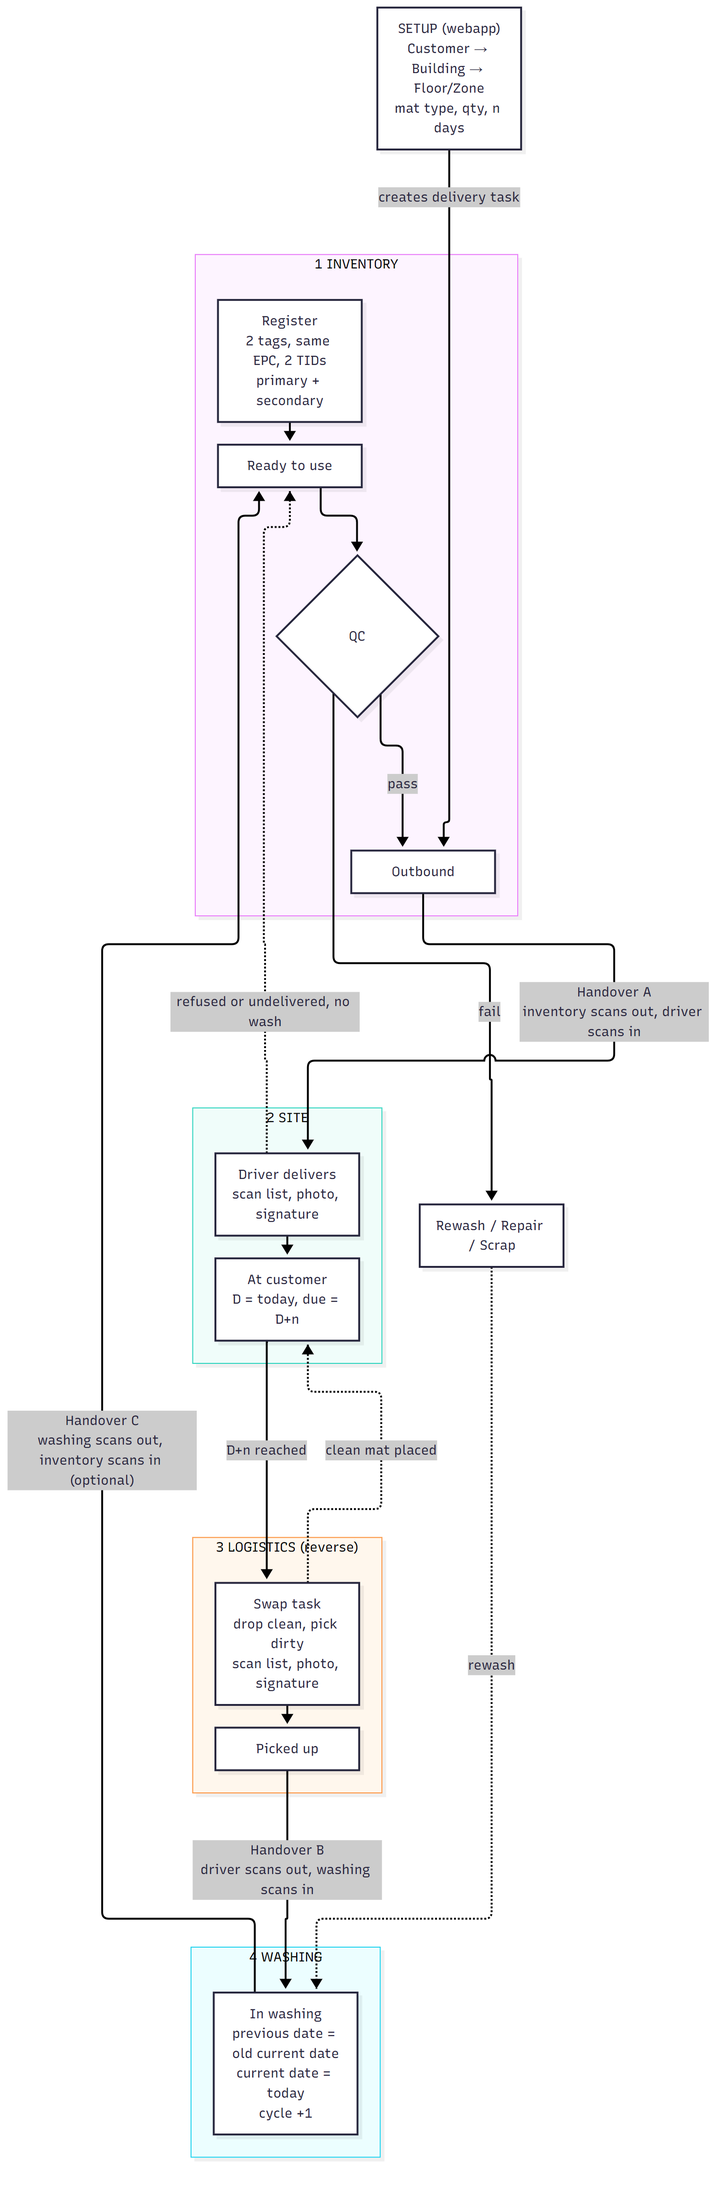
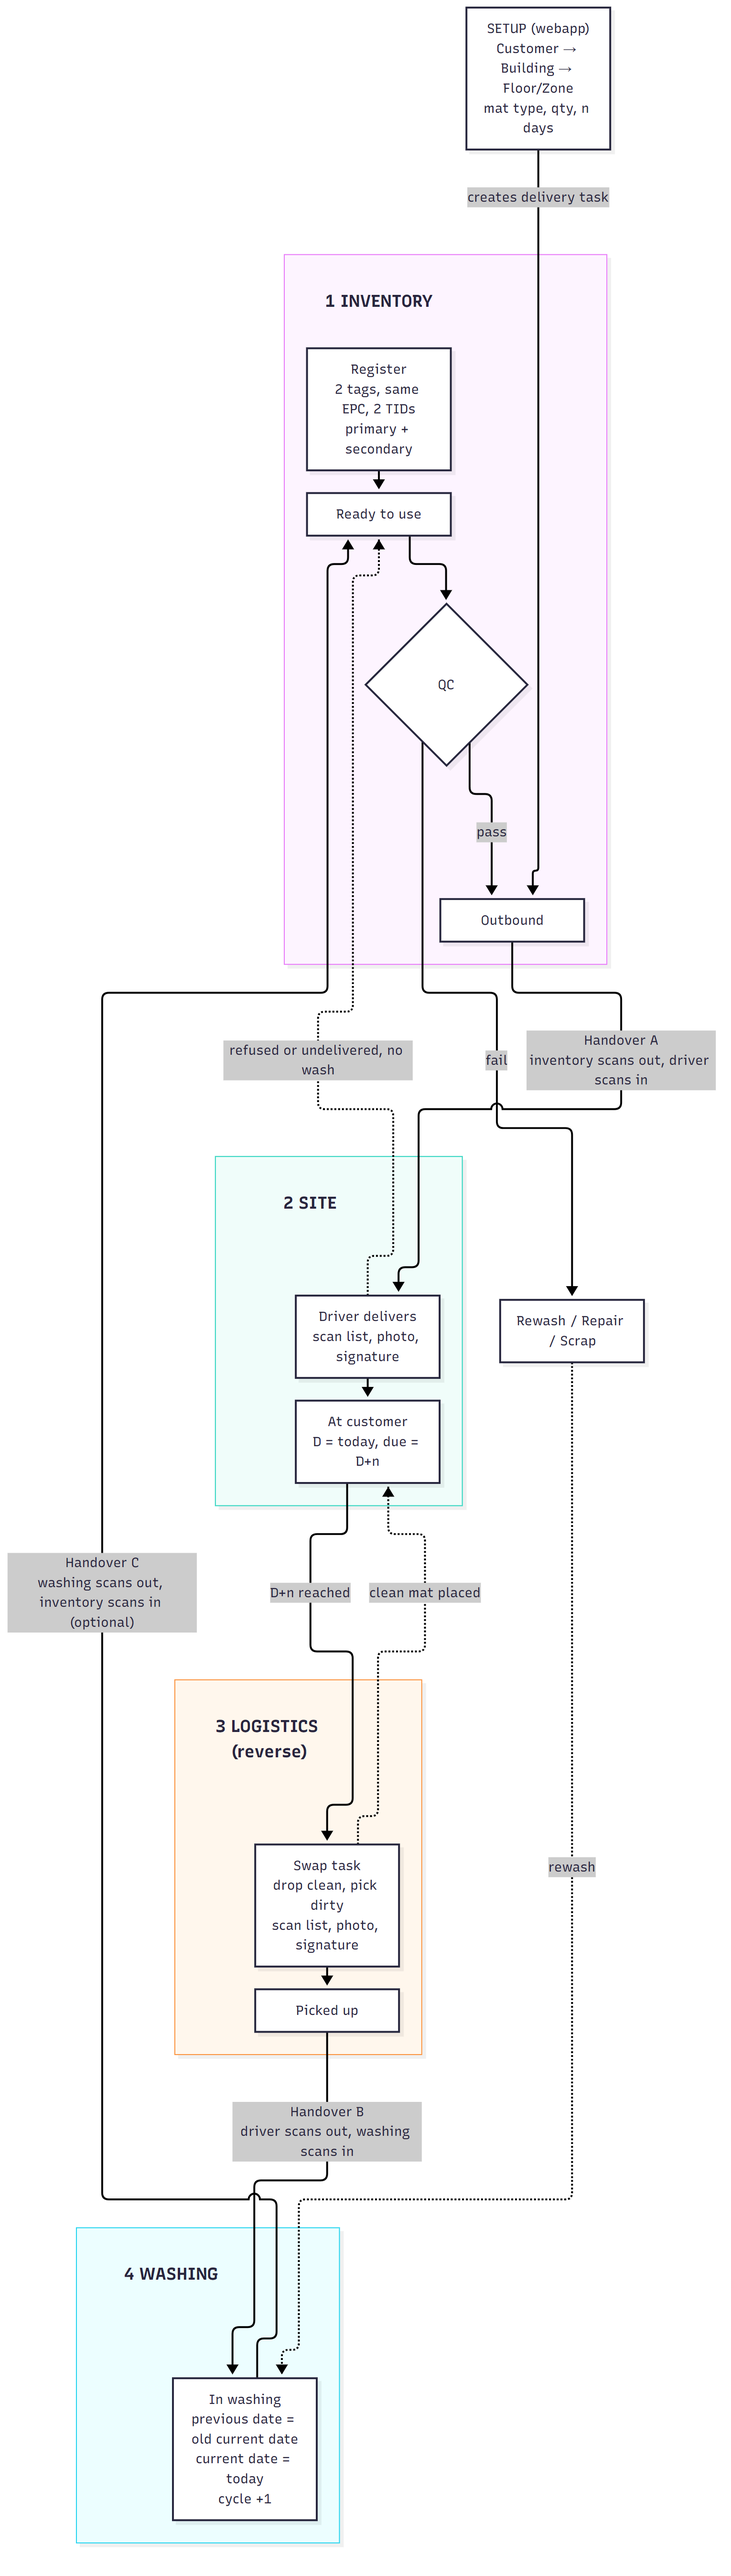
Move phase titles clear of arrow lines at 0.1.3.

diff --git a/FLOW.md b/FLOW.md
@@ -1,6 +1,6 @@
 # Proposed flow
 
-Version: 0.1.2
+Version: 0.1.3
 
 Proposed mat lifecycle for the RFID laundry POC. Defaults that still need client confirmation are listed under the diagram.
 
@@ -13,21 +13,25 @@ Proposed mat lifecycle for the RFID laundry POC. Defaults that still need client
 flowchart TD
     SETUP["SETUP (webapp)<br/>Customer → Building → Floor/Zone<br/>mat type, qty, n days"]
 
-    subgraph INV["1 INVENTORY"]
+    subgraph INV[" "]
+        T1["1 INVENTORY"]:::phase ~~~ REG
         REG["Register<br/>2 tags, same EPC, 2 TIDs<br/>primary + secondary"] --> READY["Ready to use"]
         READY --> QC{"QC"}
         QC -- pass --> OUT["Outbound"]
     end
 
-    subgraph SITE["2 SITE"]
+    subgraph SITE[" "]
+        T2["2 SITE"]:::phase ~~~ DEL
         DEL["Driver delivers<br/>scan list, photo, signature"] --> ATC["At customer<br/>D = today, due = D+n"]
     end
 
-    subgraph LOG["3 LOGISTICS (reverse)"]
+    subgraph LOG[" "]
+        T3["3 LOGISTICS (reverse)"]:::phase ~~~ SWAP
         SWAP["Swap task<br/>drop clean, pick dirty<br/>scan list, photo, signature"] --> PICKED["Picked up"]
     end
 
-    subgraph WASH["4 WASHING"]
+    subgraph WASH[" "]
+        T4["4 WASHING"]:::phase ~~~ INW
         INW["In washing<br/>previous date = old current date<br/>current date = today<br/>cycle +1"]
     end
 
@@ -43,6 +47,8 @@ flowchart TD
     QC -- fail --> FIX
     FIX -. "rewash" .-> INW
     DEL -. "refused or undelivered, no wash" .-> READY
+
+    classDef phase fill:none,stroke:none,font-weight:bold,font-size:18px
 ```
 
 </details>

diff --git a/POC.md b/POC.md
@@ -1,6 +1,6 @@
 # Laundry RFID POC
 
-Version: 0.1.2
+Version: 0.1.3
 
 One building. The site owns the linen. One RFID tag is one cloth. The Chainway C72 only returns a tag id. The apps store the name, the item number, and the wash count.
 
